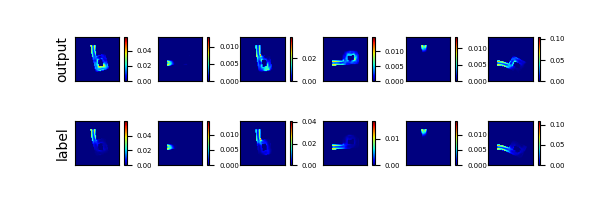
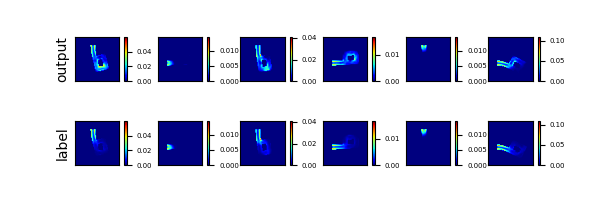
update

diff --git a/code/result/stress/sh_result.py b/code/result/stress/sh_result.py
@@ -46,12 +46,12 @@ def mk_image(output, label, mode):
         ax5 = fig.add_subplot(2, 6, 5)
         ax6 = fig.add_subplot(2, 6, 6)
 
-        im1 = ax1.imshow(output[i*6][0], cmap=cm.jet)
-        im2 = ax2.imshow(output[i*6+1][0], cmap=cm.jet)
-        im3 = ax3.imshow(output[i*6+2][0], cmap=cm.jet)
-        im4 = ax4.imshow(output[i*6+3][0], cmap=cm.jet)
-        im5 = ax5.imshow(output[i*6+4][0], cmap=cm.jet)
-        im6 = ax6.imshow(output[i*6+5][0], cmap=cm.jet)
+        im1 = ax1.imshow(output[i*6][0], cmap=cm.jet, vmin=0, vmax=max(output[i*6][0].max(),label[i*6][0].max()))
+        im2 = ax2.imshow(output[i*6+1][0], cmap=cm.jet, vmin=0, vmax=max(output[i*6+1][0].max(),label[i*6+1][0].max()))
+        im3 = ax3.imshow(output[i*6+2][0], cmap=cm.jet, vmin=0, vmax=max(output[i*6+2][0].max(),label[i*6+2][0].max()))
+        im4 = ax4.imshow(output[i*6+3][0], cmap=cm.jet, vmin=0, vmax=max(output[i*6+3][0].max(),label[i*6+3][0].max()))
+        im5 = ax5.imshow(output[i*6+4][0], cmap=cm.jet, vmin=0, vmax=max(output[i*6+4][0].max(),label[i*6+4][0].max()))
+        im6 = ax6.imshow(output[i*6+5][0], cmap=cm.jet, vmin=0, vmax=max(output[i*6+5][0].max(),label[i*6+5][0].max()))
 
 
         divider = make_axes_locatable(ax1)
@@ -108,12 +108,12 @@ def mk_image(output, label, mode):
         ax11 = fig.add_subplot(2, 6, 11)
         ax12 = fig.add_subplot(2, 6, 12)
 
-        im7 = ax7.imshow(label[i*6][0], cmap=cm.jet)
-        im8 = ax8.imshow(label[i*6+1][0], cmap=cm.jet)
-        im9 = ax9.imshow(label[i*6+2][0], cmap=cm.jet)
-        im10 = ax10.imshow(label[i*6+3][0], cmap=cm.jet)
-        im11 = ax11.imshow(label[i*6+4][0], cmap=cm.jet)
-        im12 = ax12.imshow(label[i*6+5][0], cmap=cm.jet)
+        im7 = ax7.imshow(label[i*6][0], cmap=cm.jet, vmin=0, vmax=max(output[i*6][0].max(),label[i*6][0].max()))
+        im8 = ax8.imshow(label[i*6+1][0], cmap=cm.jet, vmin=0, vmax=max(output[i*6+1][0].max(),label[i*6+1][0].max()))
+        im9 = ax9.imshow(label[i*6+2][0], cmap=cm.jet, vmin=0, vmax=max(output[i*6+2][0].max(),label[i*6+2][0].max()))
+        im10 = ax10.imshow(label[i*6+3][0], cmap=cm.jet, vmin=0, vmax=max(output[i*6+3][0].max(),label[i*6+3][0].max()))
+        im11 = ax11.imshow(label[i*6+4][0], cmap=cm.jet, vmin=0, vmax=max(output[i*6+4][0].max(),label[i*6+4][0].max()))
+        im12 = ax12.imshow(label[i*6+5][0], cmap=cm.jet, vmin=0, vmax=max(output[i*6+5][0].max(),label[i*6+5][0].max()))
 
 
         divider = make_axes_locatable(ax7)

diff --git a/code/stress.py b/code/stress.py
@@ -41,7 +41,7 @@ data = np.stack([pre_geometry_dataset, geometry_dataset, contact_dataset], axis=
 label = np.reshape(stress_dataset, [stress_dataset.shape[0], -1, stress_dataset.shape[1], stress_dataset.shape[2]])
 
 
-# 前から順番に9:1にバリデーション → シャッフル
+# テストデータを9にする(前から順番に9:1にバリデーション → シャッフル)
 tr_data = data[0:int(len(data)*0.9)]
 tr_label = label[0:int(len(data)*0.9)]
 va_data = data[int(len(data)*0.9):]
@@ -55,6 +55,22 @@ p = np.random.permutation(len(va_data))
 va_data = va_data[p]
 va_label = va_label[p]
 
+
+'''
+# テストデータを8にする
+tr_data = np.concatenate([data[:int(len(data)*0.8)],data[int(len(data)*0.9):]])
+tr_label = np.concatenate([label[:int(len(data)*0.8)],label[int(len(data)*0.9):]])
+va_data = data[int(len(data)*0.8):int(len(data)*0.9)]
+va_label = label[int(len(data)*0.8):int(len(data)*0.9)]
+
+p = np.random.permutation(len(tr_data))
+tr_data = tr_data[p]
+tr_label = tr_label[p]
+
+p = np.random.permutation(len(va_data))
+va_data = va_data[p]
+va_label = va_label[p]
+'''
 
 '''
 # シャッフル → 9:1にバリデーション

diff --git a/code/force.py b/code/force.py
@@ -42,7 +42,7 @@ data = np.stack([pre_geometry_dataset, geometry_dataset, contact_dataset], axis=
 label = np.reshape(force_dataset, [force_dataset.shape[0], -1, force_dataset.shape[1], force_dataset.shape[2]])
 
 
-# 前から順番に9:1にバリデーション → シャッフル
+# テストデータを9にする(前から順番に9:1にバリデーション → シャッフル)
 tr_data = data[0:int(len(data)*0.9)]
 tr_label = label[0:int(len(data)*0.9)]
 va_data = data[int(len(data)*0.9):]
@@ -56,6 +56,22 @@ p = np.random.permutation(len(va_data))
 va_data = va_data[p]
 va_label = va_label[p]
 
+
+'''
+# テストデータを8にする
+tr_data = np.concatenate([data[:int(len(data)*0.8)],data[int(len(data)*0.9):]])
+tr_label = np.concatenate([label[:int(len(data)*0.8)],label[int(len(data)*0.9):]])
+va_data = data[int(len(data)*0.8):int(len(data)*0.9)]
+va_label = label[int(len(data)*0.8):int(len(data)*0.9)]
+
+p = np.random.permutation(len(tr_data))
+tr_data = tr_data[p]
+tr_label = tr_label[p]
+
+p = np.random.permutation(len(va_data))
+va_data = va_data[p]
+va_label = va_label[p]
+'''
 
 '''
 # シャッフル → 9:1にバリデーション
